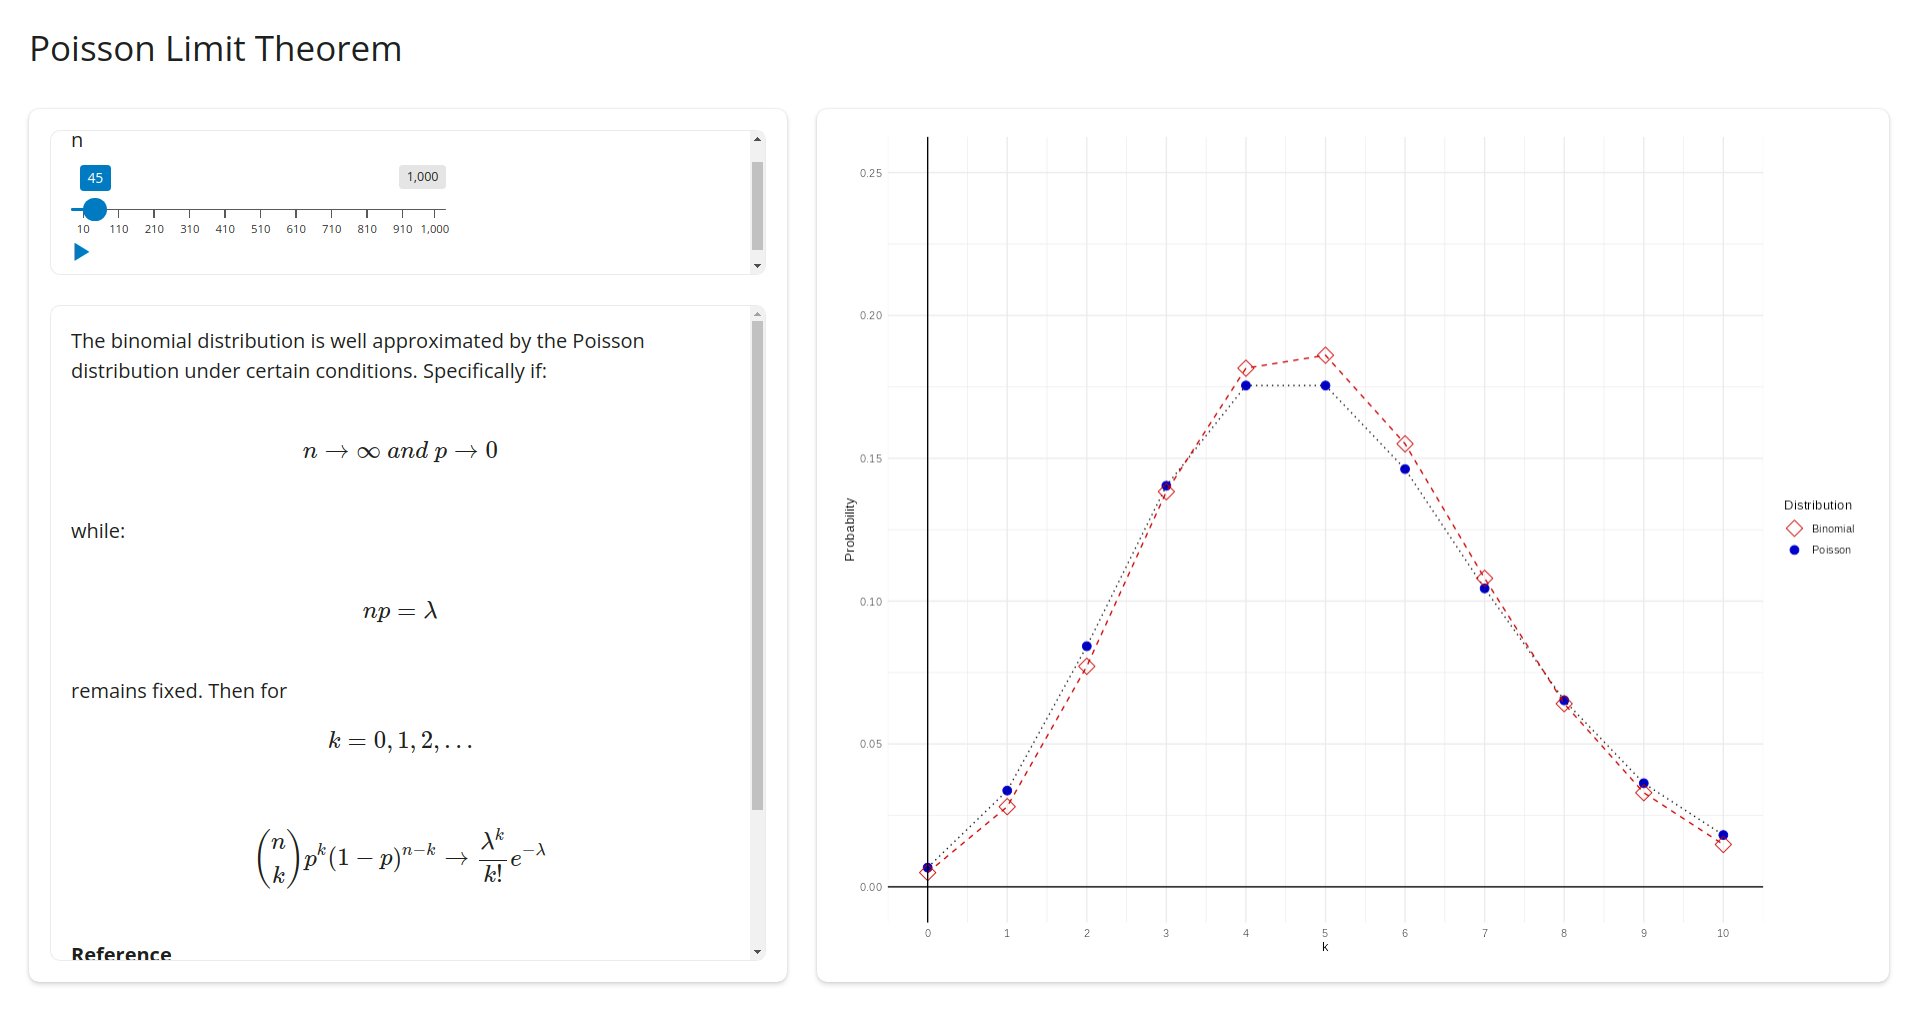
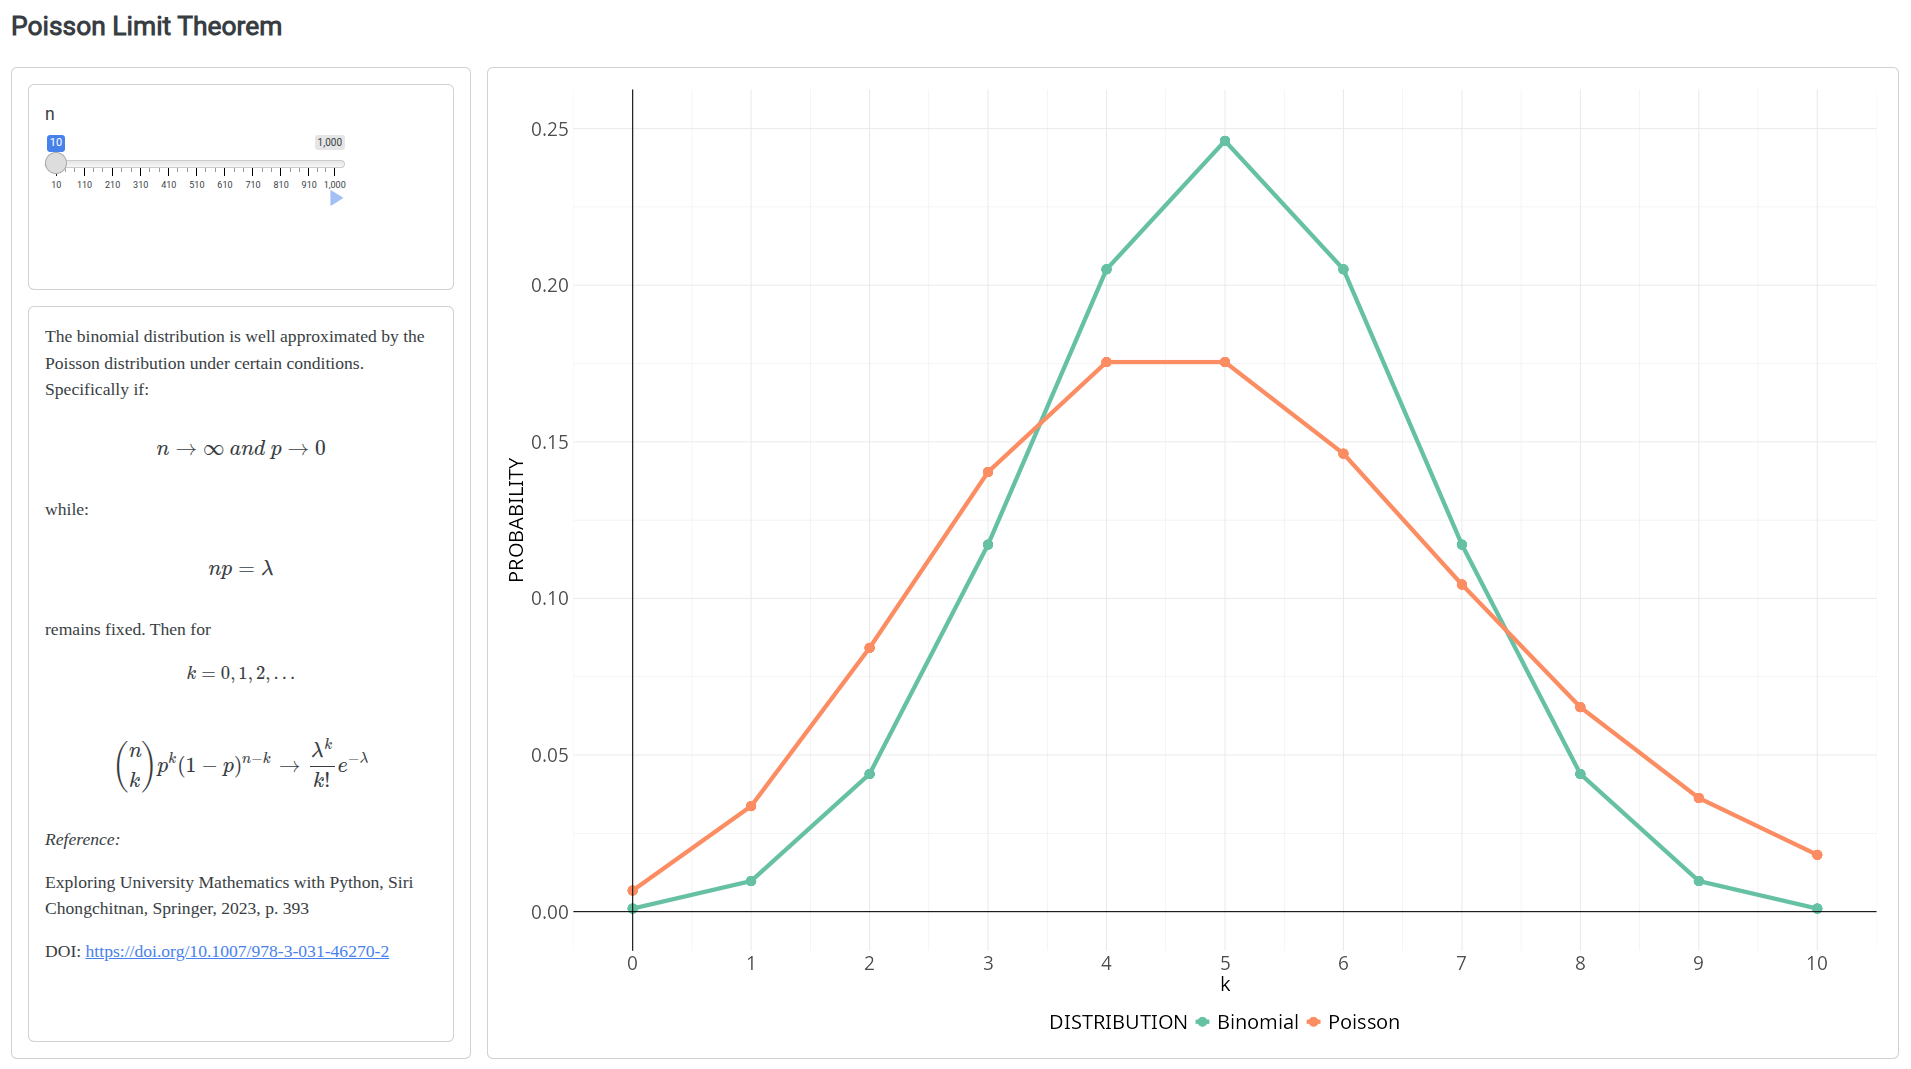
Changed structure of data reactive and appearance of the app

diff --git a/README.md b/README.md
@@ -20,6 +20,10 @@ remains fixed and equal to $\lambda$ then the Binomial distribution is well
 
 approximated by the Poisson distribution with parameter $\lambda=np$.
 
+_Reference_
+
+Exploring University Mathematics with Python, Siri Chongchitnan, Springer, 2023, p. 393
+
 ### Shiny App
 
 In this Shiny app, the number of trials is controlled by a slider input which
